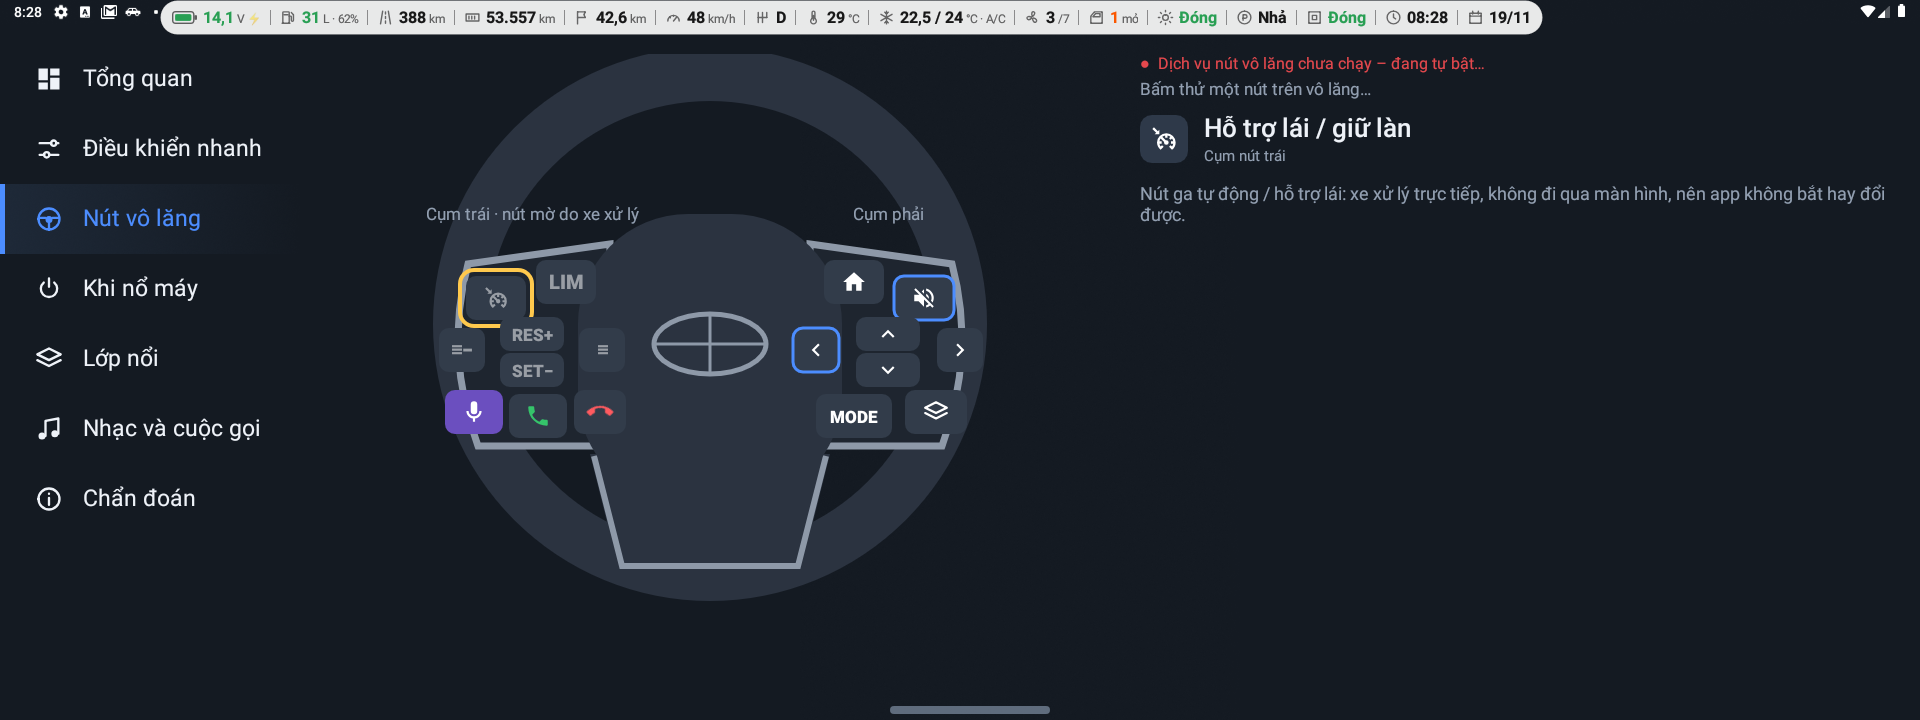
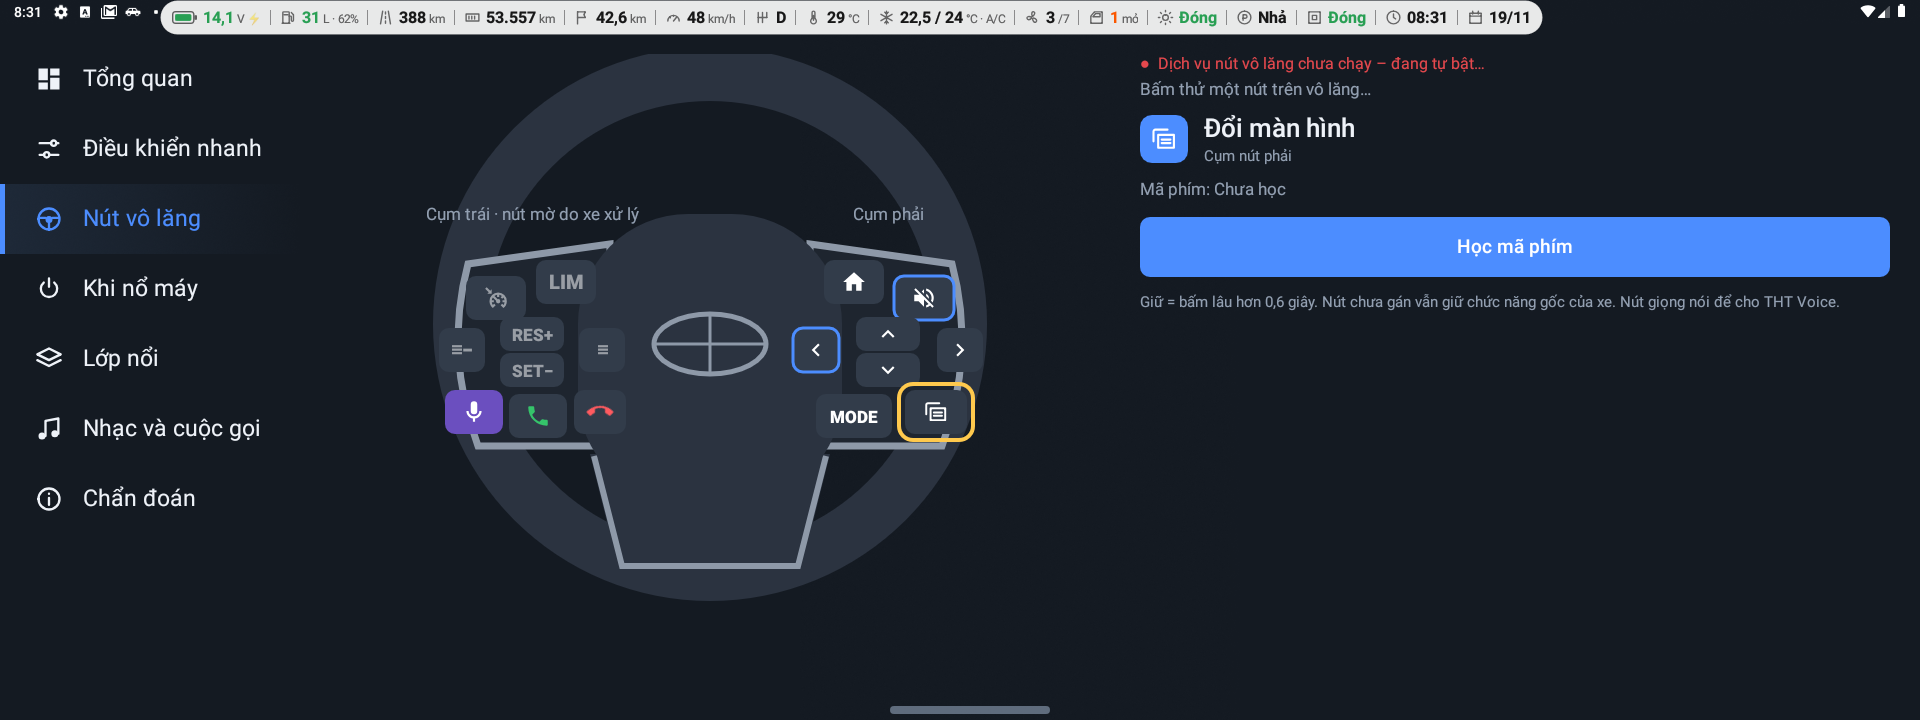
Biểu tượng nút đổi màn hình theo ảnh vô lăng thật; lưu ảnh chụp gần hai cụm nút

diff --git a/app/src/main/java/vn/tht/hub/keys/WheelButtons.kt b/app/src/main/java/vn/tht/hub/keys/WheelButtons.kt
@@ -42,5 +42,5 @@ enum class WheelButton(
     ROLL_DOWN("Con lăn xuống (âm lượng −)", false, icon = R.drawable.ic_chevron_down),
     NEXT("▶ Phải (bài tiếp)", false, icon = R.drawable.ic_chevron_right),
     MODE("MODE (đổi nguồn)", false, text = "MODE"),
-    VIEW("Đổi màn hình", false, icon = R.drawable.ic_nav_layers),
+    VIEW("Đổi màn hình", false, icon = R.drawable.ic_view_switch),
 }
